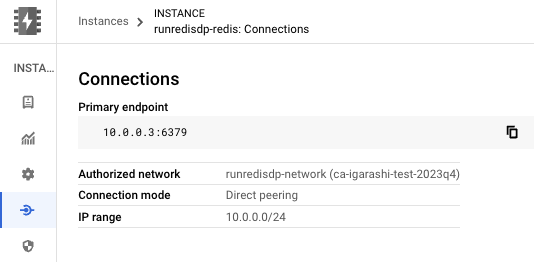
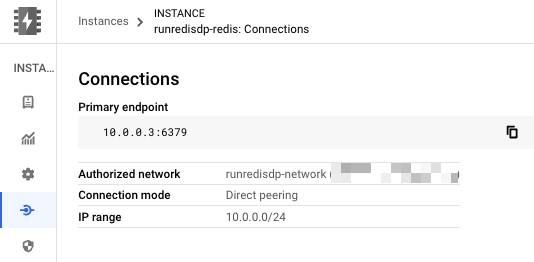
イメージの差し替え

Changed region(s): [[0.6292, 0.6107, 0.8689, 0.7023]]

diff --git a/single-project/private-service-access/README.md b/single-project/private-service-access/README.md
@@ -6,7 +6,7 @@
 
 ## 0. 準備
 
-+ 環境変数をセットしておきます
++ 環境変数をセット
 
 ```
 export _gc_pj_id='Your Google Cloud ID'
@@ -20,7 +20,7 @@ export _region='asia-northeast1'
 
 ## 1. IAM
 
-+ Cloud Run 用の Service Account を発行し、 Cloud SQL に接続できる最低限の Role を付与する
++ Cloud Run 用の Service Account を発行し、 Cloud SQL に接続できる最低限の Role を付与
 
 ```
 gcloud beta iam service-accounts create ${_common}-run-sa \
@@ -29,7 +29,7 @@ gcloud beta iam service-accounts create ${_common}-run-sa \
   --project ${_gc_pj_id}
 ```
 
-+ 上記で作成した Service Account に以下の Role を付与します
++ 上記で作成した Service Account に以下の Role を付与
   + 今回は不要
 
 ```
@@ -68,7 +68,7 @@ gcloud beta services vpc-peerings connect \
 ```
 
 + サブネットの作成
-  + Direct VPC egress 用
+  + Cloud Run の Direct VPC egress 用
 
 ```
 gcloud beta compute networks subnets create ${_common}-subnets \
@@ -81,7 +81,7 @@ gcloud beta compute networks subnets create ${_common}-subnets \
 
 ## 3. Memorystore for Redis
 
-+ 環境変数を設定しておく
++ 環境変数を設定
 
 ```
 export _instance_tier='basic'
@@ -107,14 +107,31 @@ gcloud beta redis instances create ${_common}-redis \
   --async
 ```
 
-+ Memorystore for Redis のインスタンスのエンドポイントを確認する
-  + Cloud Run デプロイ時に使います
++ Memorystore for Redis のインスタンスのエンドポイントを確認
+  + Cloud Run デプロイ時に使用
 
 ```
 gcloud beta redis instances describe ${_common}-redis \
   --region ${_region} \
   --project ${_gc_pj_id} \
   --format json | jq -r .host
+```
+
++ Memorystore for Redis のインスタンスのエンドポイントを環境変数に設定
+
+```
+export _redis_host=$(gcloud beta redis instances describe ${_common}-redis \
+  --region ${_region} \
+  --project ${_gc_pj_id} \
+  --format json | jq -r .host)
+
+echo ${_redis_host}
+```
+```
+### 例
+
+$ echo ${_redis_host}
+10.137.0.3
 ```
 
 ## 4. Artifact Registry のリポジトリ作成とコンテナイメージの格納
@@ -139,15 +156,6 @@ docker push ${_region}-docker.pkg.dev/${_gc_pj_id}/${_common}-ar/redis-commander
 ```
 
 ## 5. Cloud Run のサービスのデプロイ
-
-+ Memorystore for Redis のインスタンスのエンドポイントを環境変数にいれる
-
-```
-export _redis_host=$(gcloud beta redis instances describe ${_common}-redis \
-  --region ${_region} \
-  --project ${_gc_pj_id} \
-  --format json | jq -r .host)
-```
 
 + Cloud Run のサービスのデプロイ
 
@@ -183,7 +191,13 @@ gcloud beta run services describe ${_common}-run \
 
 ## 6. Web ブラウザで確認する
 
-![](./_img/6-1.png)
++ Top ページ
+
+![](./_img/psa-6-1.png)
+
++ Memorystore for Redis の接続ページ
+
+![](./_img/psa-6-2.png)
 
 ## 99. クリーンアップ
 

diff --git a/single-project/direct-peering/README.md b/single-project/direct-peering/README.md
@@ -47,7 +47,7 @@ gcloud beta compute networks create ${_common}-network \
 ```
 
 + サブネットの作成
-  + Direct VPC egress 用
+  + Cloud Run の Direct VPC egress 用
 
 ```
 gcloud beta compute networks subnets create ${_common}-subnets \
@@ -173,11 +173,11 @@ gcloud beta run services describe ${_common}-run \
 
 + Top ページ
 
-![](./_img/6-1.png)
+![](./_img/dp-6-1.png)
 
 + Memorystore for Redis の接続ページ
 
-![](./_img/6-2.png)
+![](./_img/dp-6-2.png)
 
 ## 99. クリーンアップ
 
